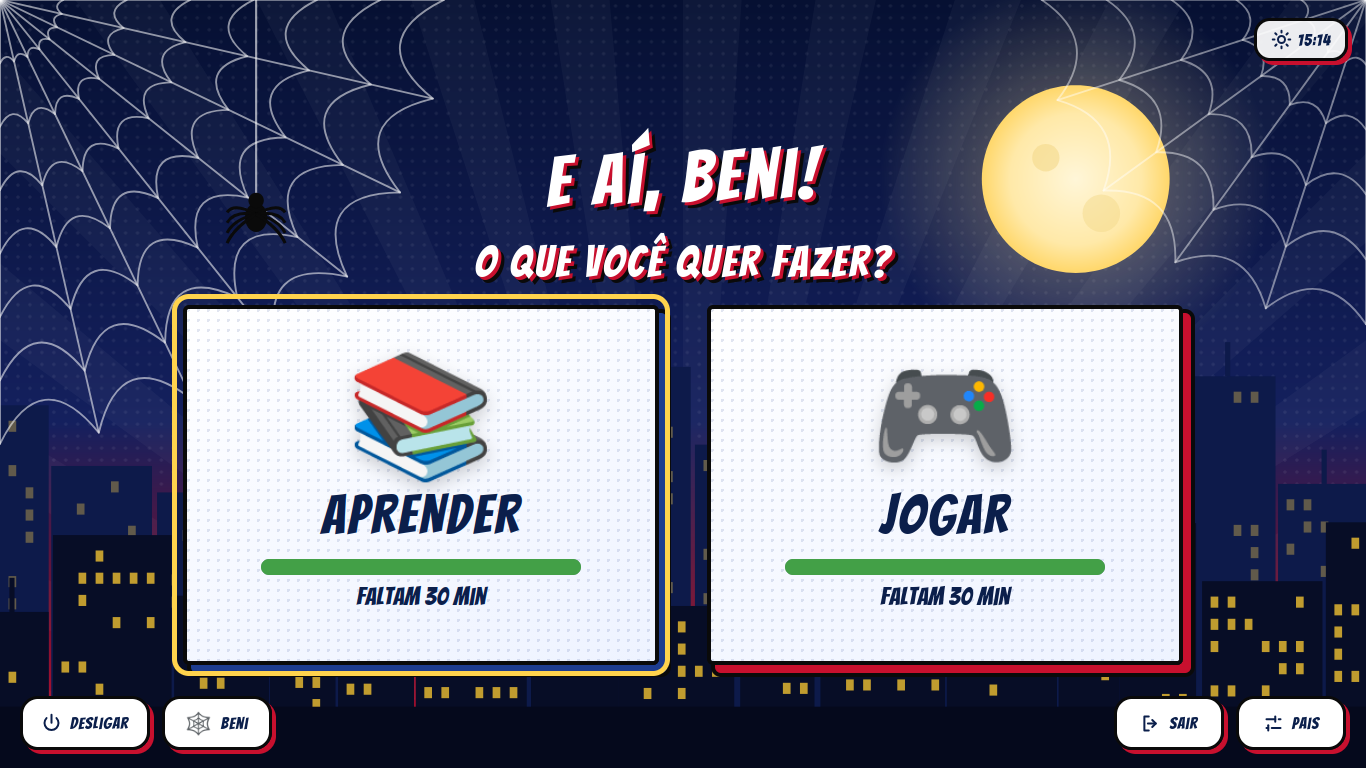
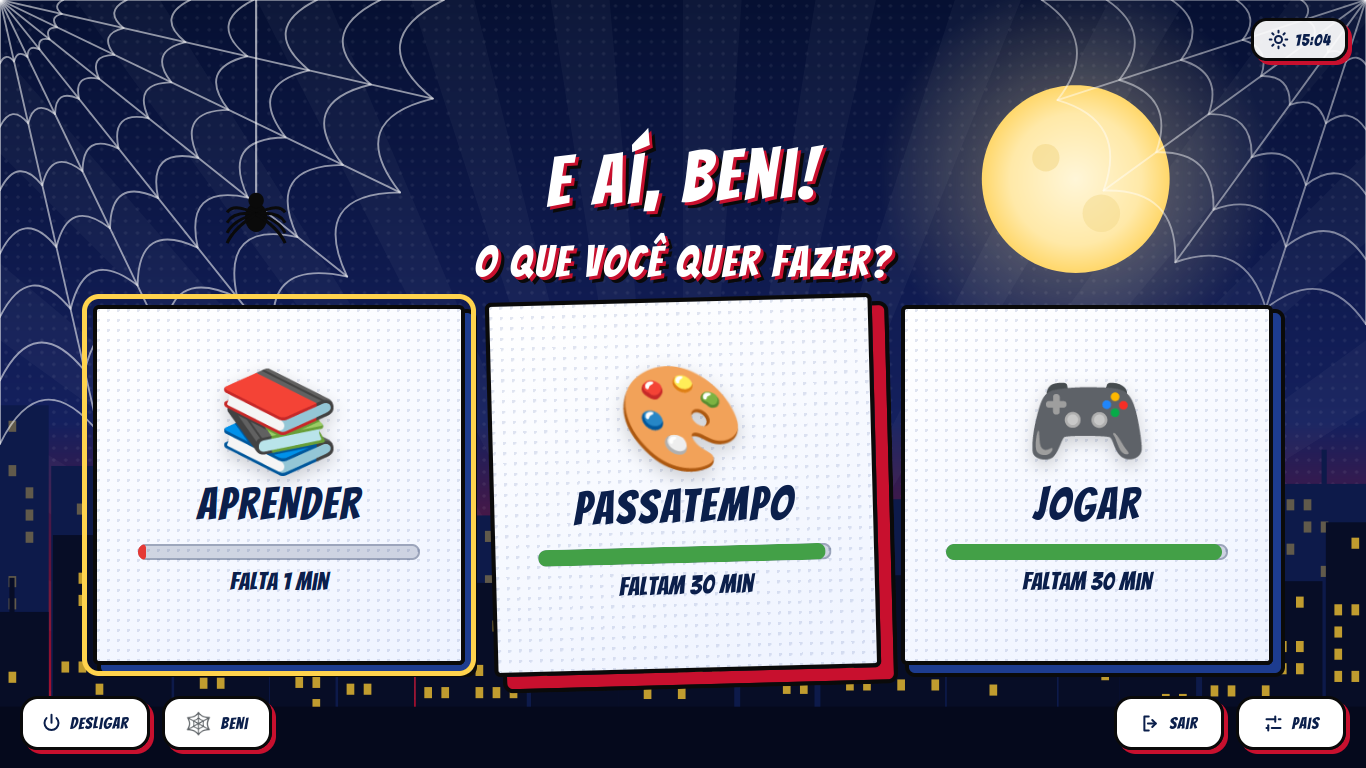
README reescrito: tempo de tela, reforço de aprendizagem, login automático e internet segura
Claude-Session: https://claude.ai/code/session_01SbTExiK8pLETFbRVF14o5w

Changed region(s): [[0.0615, 0.375, 0.9531, 0.9062], [0.8917, 0.0312, 0.9839, 0.0625]]

diff --git a/README.md b/README.md
@@ -1,52 +1,116 @@
 # Beni Launcher
 
-Um menu infantil em tela cheia para notebooks antigos com Linux, pensado para crianças de 5 a 8 anos.
-Ao ligar o notebook, a criança vê **"O que você quer fazer? 📚 Aprender / 🎨 Passatempo / 🎮 Jogar"**, escolhe, e só
-encontra apps, jogos e sites aprovados pelos pais, com **limite de tempo diário por categoria**.
+**Um computador para crianças que equilibra aprender e brincar.** É um menu em tela cheia para
+notebooks antigos com Linux, pensado para crianças de 5 a 10 anos. A criança só encontra o que
+os pais aprovaram. O tempo de tela é controlado por categoria, e o tempo de jogo depende de ela
+ter feito a parte de aprendizado.
+
+Ao ligar o notebook, a criança vê **"O que você quer fazer? 📚 Aprender / 🎨 Passatempo / 🎮 Jogar"**.
+Cada cartão mostra quanto tempo ainda resta hoje.
 
 ![Tela inicial](beni/prints/01-escolha-beni.png)
 
-> **Este projeto é uma adaptação do [Cozy Kids Launcher](https://github.com/TrissyGE/cozy-kids-launcher)**,
-> criado por Tristan e colaboradores (licença MIT). Todo o núcleo, como o servidor local, a
-> supervisão dos apps, o botão ❌ por cima dos jogos, os perfis, o PIN dos pais e os horários,
-> vem de lá. Este repositório parte da versão **0.6.0** (commit `91b7157`), mantém o histórico
-> original e acrescenta as mudanças descritas abaixo, feitas para preparar dois notebooks antigos
-> para duas crianças brasileiras (Beni, 8 anos, e Bea, 5 anos).
-> O README original está em [README.original.md](README.original.md).
+### Os quatro pilares
+
+| | |
+|---|---|
+| ⏳ **Tempo de tela por categoria** | Minutos por dia para Aprender, Passatempo e Jogar, diferentes em cada dia da semana se quiser (mais jogo no fim de semana). O tempo só conta com o app aberto, sobrevive a reinícios e zera à meia-noite. |
+| 📚 **Reforço obrigatório de aprendizagem** | Se ontem a criança não cumpriu a meta de Aprender, hoje o Jogar fica menor. Ex.: ontem 0/30 min de Aprender → hoje 15 min de Jogar em vez de 30. Os pais escolhem a meta e o tamanho da redução. |
+| 🔑 **Login automático nos sites** | Os pais salvam uma vez o e-mail e a senha da conta de cada criança (Khan Academy, Teach Your Monster). Ao abrir o site, o launcher entra sozinho. Cada criança tem o seu navegador, então as contas não se misturam. |
+| 🛡 **Internet e conteúdo seguros** | DNS com filtro para crianças em qualquer Wi‑Fi, Busca Segura e YouTube restrito obrigatórios, bloqueador de anúncios e sites "limpos" (sem menus de jogos, propagandas ou links para fora). |
+
+> **Base:** este projeto nasceu do [Cozy Kids Launcher](https://github.com/TrissyGE/cozy-kids-launcher)
+> (Tristan e colaboradores, licença MIT), versão **0.6.0** (commit `91b7157`). O núcleo vem de lá:
+> servidor local, supervisão dos apps, ❌ por cima dos jogos, perfis, PIN dos pais e horários.
+> O histórico original foi mantido. Hoje o projeto está bem diferente: tem tela de categorias,
+> limites, reforço de aprendizado, login automático, filtro de internet, apps e sites próprios,
+> emuladores e correções para hardware antigo. O README original está em
+> [README.original.md](README.original.md).
+> Feito para dois notebooks antigos de duas crianças brasileiras (Beni, 8 anos, e Bea, 5 anos).
 
 ---
 
-## O que mudou em relação ao original
+## Para as crianças
 
-### Para as crianças
-- **Tela inicial "Aprender / Passatempo / Jogar"**: cartões grandes (Passatempo = desenhar, colorir e jogos educativos, dividindo o tempo com os Jogos), cada um com uma barrinha e "faltam 18 min". A lista mostra só a categoria escolhida, com botão **⬅ Voltar** (ou Esc). Quando a categoria esgota, o cartão fica cinza com 🔒 "Amanhã tem mais!".
-- **Limite de tempo diário por categoria**: por exemplo, 60 min por dia, sendo 30 de jogos e 30 de atividades educativas.
-  - Medidores verde/amarelo/vermelho no launcher e o tempo restante ao lado do ❌ durante o jogo.
-  - Nos **10 segundos finais** aparece uma contagem grande ("Seu tempo de jogos está acabando! 8…"), com a sugestão do que ainda dá para fazer ("Você ainda pode brincar de Aprender (18 min)").
-  - O tempo continua contando certo mesmo depois de reiniciar o notebook e zera à meia-noite.
-  - Se os pais ligarem a **regra de aprendizado**, quem não aprendeu ontem tem menos tempo de Jogar hoje ("Hoje 15 min — ontem faltou aprender 📚").
-- **6 temas novos**, com arte original em SVG (nenhum personagem ou logo de marca):
-  - meninos: **Herói Aranha** (quadrinhos), **Blocos de Montar** e **Dojo Ninja**;
-  - meninas: **Reino do Gelo**, **Casinha Mágica** e **Castelo Encantado**, com letras grandes e redondas para quem ainda está aprendendo a ler.
-- **Interface toda em português do Brasil**: a tela das crianças e toda a área dos pais (novo idioma `pt`).
-- **Apps melhores**:
-  - GCompris em versão nova (Flathub) o Kleki para desenhar (no lugar do Tux Paint; os desenhos ficam em Imagens/Desenhos), o Autodraw e o Colorir (desenhos prontos para pintar, sem propaganda de outros jogos);
-  - Scratch (TurboWarp), Luanti (parecido com Minecraft), Klavaro (digitação), Klotski, Pingus, Hex-a-hop, SuperTux, Frogatto e Stellarium;
-  - sites educativos em português (Khan Academy, PhET com uma tela para escolher a matéria, Blockly Games, Escola Games sem anúncios e sem o menu de jogos de diversão);
-  - jogos de vestir/maquiagem/boneca sem anúncios (itch.io).
-- **Super Nintendo e PlayStation**: uma lista de jogos em tela cheia, com capas, que funciona com teclado, mouse ou controle. Usa RetroArch + snes9x e PCSX-Reloaded. Os jogos (ROMs) não vêm incluídos.
-- **Jogos de navegador em tela cheia de verdade**: os jogos do itch.io são ampliados até ocupar a tela, a faixa do Unity com o botão "tela cheia" é escondida e uma tela "Carregando…" cobre a abertura, para não aparecer a área de trabalho piscando.
+### Três categorias, cada uma com o seu tempo
+- **Tela inicial "Aprender / Passatempo / Jogar"**: cartões grandes com barrinha e "faltam 18 min".
+  - A lista mostra só a categoria escolhida, com **⬅ Voltar** (ou Esc).
+  - Quando o tempo acaba, o cartão fica cinza com 🔒 "Amanhã tem mais!".
+- **Medidores** verde/amarelo/vermelho no launcher. Durante o jogo, uma barra discreta mostra o tempo restante. Ela fica meio transparente, dá para arrastar para outro canto e tem o ❌ para fechar.
+- Nos **sites** aparece também um botão **‹ Voltar** no canto inferior esquerdo.
+- Nos **10 segundos finais**, uma contagem grande avisa ("Seu tempo de jogos está acabando! 8…") e sugere o que ainda dá para fazer ("Você ainda pode brincar de Aprender (18 min)").
+- Com o **reforço de aprendizagem** ligado:
+  - os cartões Jogar e Passatempo explicam com carinho: "Hoje 15 min — ontem faltou aprender 📚";
+  - o cartão Aprender mostra quanto falta para ter o Jogar inteiro amanhã ("Meta de hoje cumprida! ⭐").
 
-### Para os pais
-- **Coleções do itch.io**: cada criança tem uma coleção pública no itch.io. Jogo que você adiciona na coleção vira ícone, com a capa, no perfil da criança, e jogo removido some. A sincronização roda no login e a cada 30 min. Os pais testam o jogo antes e só então distribuem.
-- Em Pais → Tempo de tela → **Limite diário por categoria** você define os minutos (também diferentes em cada dia da semana, por exemplo mais jogo no fim de semana), escolhe a categoria de cada app e zera o tempo do dia.
-- **Regra de aprendizado** (opcional, no mesmo quadro): se ontem a criança não fez a meta de Aprender (padrão: metade do tempo de Aprender), hoje o Jogar (e o Passatempo, que divide o mesmo tempo) fica menor (padrão: metade). Ex.: ontem Aprender 0/30 min → hoje Jogar 15 min em vez de 30. Dá para escolher os dois percentuais e o modo proporcional (quem aprendeu um pouco perde menos). Dia sem uso do notebook não conta, e o total do dia não muda. A criança vê "Hoje 15 min — ontem faltou aprender 📚" no cartão Jogar e, no Aprender, quanto falta para ter o Jogar inteiro amanhã; os pais veem o motivo ("Hoje: Jogar reduzido para 15 min porque ontem Aprender foi 0/30 min").
-- **Login automático no Khan Academy e no Teach Your Monster**: em Pais → Crianças → "🔑 Login automático nos sites" você salva o e-mail e a senha da conta da criança; ao abrir o site, o launcher entra sozinho. Cada criança tem o seu navegador de sites, então os logins não se misturam.
-- **Internet com filtro**: o notebook usa o DNS CleanBrowsing Family em qualquer Wi‑Fi. Sites adultos, proxies e VPNs ficam bloqueados, e a Busca Segura do Google e o Modo Restrito do YouTube são obrigatórios.
-- Em Pais → Aparência → **Tela inicial** você liga ou desliga a pergunta Aprender/Passatempo/Jogar em cada perfil.
-- A prévia da aparência mostra o visual dos temas novos e as capas dos jogos.
+### O que tem em cada categoria
+| 📚 Aprender | 🎨 Passatempo | 🎮 Jogar |
+|---|---|---|
+| Khan Academy (login automático) | Desenhar (**Kleki**, desenhos salvos em Imagens/Desenhos) | Luanti (parecido com Minecraft) |
+| **PhET** com tela para escolher a matéria (Física, Matemática, Química, Terra e Espaço, Biologia), já no Ensino Fundamental 1 | **Autodraw** | SuperTux, SuperTuxKart, Frogatto |
+| **Escola Games** sem anúncios e sem o menu de jogos de diversão | **Colorir** (só os desenhos, sem propaganda de outros jogos) | **Super Nintendo e PlayStation** (lista com capas, teclado/mouse/controle) |
+| Scratch (TurboWarp), Blockly Games | **Teach Your Monster** (login automático) | jogos de navegador do **itch.io** em tela cheia de verdade |
+| Digitação (Klavaro), Planetário (Stellarium) | GCompris, Pingus, Hex-a-hop, Klotski, Music Lab | jogos de vestir/maquiagem/boneca sem anúncios |
 
-### Correções para notebooks antigos e jogos "rebeldes"
+Os pais mudam qualquer app de categoria em Pais → Tempo de tela.
+
+### Visual
+- **6 temas novos** com arte original em SVG (nenhum personagem ou logo de marca):
+  - **Herói Aranha** (quadrinhos), **Blocos de Montar** e **Dojo Ninja**;
+  - **Reino do Gelo**, **Casinha Mágica** e **Castelo Encantado**, com letras grandes e redondas para quem está aprendendo a ler.
+- **Tudo em português do Brasil**, na tela das crianças e na área dos pais.
+
+---
+
+## Para os pais
+
+### ⏳ Tempo de tela (Pais → Tempo de tela)
+- **Limite diário por categoria e total do dia**, por exemplo 30 min de Aprender + 30 min de Jogar.
+- O **Passatempo divide o tempo com os Jogos**: desenhar 10 min deixa 20 para jogar. Também pode ter tempo próprio.
+- **Tempo diferente em cada dia da semana**: uma tabela Seg–Dom, com o dia de hoje destacado.
+- **Categoria de cada app** escolhida numa lista, e um botão **"Zerar o tempo de hoje"**.
+- Horários permitidos por dia e por app (do projeto original).
+
+### 📚 Reforço obrigatório de aprendizagem (no mesmo quadro)
+- **Meta**: fazer pelo menos *X*% do tempo de Aprender do dia (padrão 50%: com 30 min de Aprender, a meta é 15).
+- **Consequência**: se a meta não foi cumprida ontem, hoje o Jogar (e o Passatempo, que divide o mesmo tempo) fica com *Y*% (padrão 50%).
+- **Modo proporcional** (opcional): quem aprendeu um pouco perde menos.
+- **Justo com a criança**:
+  - dia sem uso do notebook não conta;
+  - o Aprender e o total do dia nunca diminuem;
+  - o próprio launcher fecha o jogo no limite reduzido.
+- Os pais veem o motivo, por exemplo: "Hoje: Jogar reduzido para 15 min (de 30) porque ontem Aprender foi 0/30 min".
+- Vem desligado e é ligado por perfil.
+
+### 🔑 Login automático nos sites (Pais → Crianças)
+- Quadro **"Login automático nos sites"**, com e-mail/usuário e senha **por criança**.
+  - Hoje: Khan Academy e Teach Your Monster (conta de família, aba "Home").
+- Ao abrir o site, o launcher preenche o login e clica em "Entrar". Se a sessão ainda estiver aberta, não digita nada.
+- **A senha fica só neste computador**, num arquivo separado da configuração e legível só pelo usuário. Depois de salva, ela nunca aparece de novo na tela.
+- **Cada criança tem o seu navegador de sites** (cookies e logins separados): o Khan da Bea não abre com a conta do Beni.
+- Para acrescentar outro site, basta descrever a página de login em `src/site_logins.py`.
+
+### 🛡 Internet e conteúdo
+- **DNS CleanBrowsing Family** em qualquer Wi‑Fi:
+  - bloqueia sites adultos, proxies e VPNs;
+  - força a Busca Segura do Google/Bing e o Modo Restrito do YouTube.
+- Os navegadores não conseguem contornar o filtro, porque o DNS‑over‑HTTPS está desligado.
+- **uBlock Origin** nos sites, já ajustado para os jogos do Escola Games abrirem sem anúncio.
+- **Sites limpos com CSS próprio**:
+  - Escola Games sem o menu "Jogos";
+  - Colorir sem a barra de cima, banners e redes sociais;
+  - Autodraw sem "Share" e links externos.
+
+  As páginas proibidas também ficam bloqueadas por política do Firefox.
+- Downloads vão direto para `~/Imagens/Desenhos`, sem o painel do Firefox, que abriria o gerenciador de arquivos.
+
+### Outros
+- **Coleções do itch.io**: cada criança tem uma coleção pública. Jogo adicionado na coleção vira ícone (com capa), e jogo removido some. A sincronização roda no login e a cada 30 min, então os pais testam antes e só então liberam.
+- Em Pais → Aparência → **Tela inicial**, você liga ou desliga a pergunta Aprender/Passatempo/Jogar em cada perfil.
+
+---
+
+## Correções para notebooks antigos e jogos "rebeldes"
 | Problema | Solução |
 |---|---|
 | Nenhum app abria (o ❌ por cima falhava) | `python3-tk` passa a ser instalado |
@@ -54,11 +118,14 @@ encontra apps, jogos e sites aprovados pelos pais, com **limite de tempo diário
 | TuxMath, Pingus etc. **prendiam o mouse** e o ❌ não funcionava | `nograb.so` (LD_PRELOAD) anula o "prender mouse" do SDL 1.2/SDL2 |
 | SuperTuxKart trocava a resolução e **a tela ficava apagada** ao fechar | os atalhos sempre usam a resolução atual da tela |
 | Apps que abrem em janela (Scratch, Klavaro, Klotski) | `cozy-fullscreen` coloca em tela cheia via `wmctrl` |
+| Depois de fechar um app pelo ❌, o próximo abria **escondido atrás do menu** | o launcher só fica "por cima" por um instante |
 | Ctrl+Alt+Del bloqueava a tela, e ao voltar ficava preta | atalho e bloqueios automáticos desligados |
 | Barra do Linux aparecia ao abrir jogos | painéis do XFCE escondidos (aparecem com o mouse na borda) |
 | Linha vertical piscando no launcher (F7 do Firefox) | navegação com cursor desligada |
 | Esc numa mensagem de "tempo acabou" saía do modo infantil | agora Esc só fecha a mensagem |
 | Jogos 3D de navegador lentos no Firefox | jogos de navegador abrem no Chromium com aceleração forçada (≈2× mais FPS neste hardware) |
+| Jogos do Escola Games ficavam em "Loading…" com bloqueador de anúncios | o uBlock só bloqueia o script do Google (o jogo tem saída quando ele falha) |
+| O DNS global do NetworkManager 1.46 era ignorado | o DNS com filtro vai direto no `systemd-resolved` |
 
 A lista detalhada, arquivo por arquivo, está em [beni/MUDANCAS.md](beni/MUDANCAS.md).
 
@@ -76,34 +143,40 @@ A lista detalhada, arquivo por arquivo, está em [beni/MUDANCAS.md](beni/MUDANCA
 | Rede | Atheros AR9285 (só Wi-Fi, **sem Bluetooth**) |
 | Sistema | **Linux Mint 22.3 "Zena" XFCE** (base Ubuntu 24.04), kernel 6.14, sessão X11 |
 | Navegadores | Firefox 146 (launcher e sites) · Chromium 155 via Flathub (jogos de navegador) |
-| Python | 3.12 |
+| Python | 3.12 (só biblioteca padrão) |
 
-**Requisitos:** Linux Mint XFCE ou outra distro baseada em Ubuntu 24.04 com XFCE, sessão **X11**
-(não Wayland), internet na instalação e um usuário comum para a criança, com login automático.
-Em Mint Cinnamon/MATE quase tudo funciona, mas os ajustes de barra/bloqueio são específicos do XFCE.
+**Requisitos:**
+- Linux Mint XFCE ou outra distro baseada em Ubuntu 24.04 com XFCE.
+- Sessão **X11** (não Wayland).
+- Internet na instalação.
+- Um usuário comum para as crianças, com login automático.
+
+Em Mint Cinnamon/MATE quase tudo funciona, mas os ajustes de barra e bloqueio são específicos do XFCE.
 
 ---
 
 ## Instalação num notebook novo
 
 1. Instale o **Linux Mint XFCE**, crie o usuário e ative o **login automático**.
-2. Baixe este repositório e rode o instalador **como o usuário da criança** (sem `sudo`; ele pede a senha quando precisa):
+2. Baixe este repositório e rode o instalador **como o usuário da criança**, sem `sudo` (ele pede a senha quando precisa):
    ```bash
    git clone https://github.com/jaison/beni-launcher.git
    cd beni-launcher
    ./instalar.sh
    ```
-   São uns 2–3 GB de downloads: apps do Flathub, Chromium e emuladores.
+   São uns 2–3 GB de downloads: apps do Flathub, Chromium e emuladores. O instalador também
+   configura o DNS com filtro, o bloqueador de anúncios e as políticas do Firefox.
 3. Saia da sessão e entre de novo. O launcher abre sozinho.
 4. **Antes de entregar** para a criança:
-   - **Pais → Sistema: crie o PIN dos pais.** Sem PIN, qualquer um entra no painel, sai do modo infantil ou zera o tempo.
-   - Ajuste nomes, temas e limites em Pais. A configuração inicial traz dois perfis de exemplo, com os apps já separados em Aprender/Passatempo/Jogos.
+   - **Pais → Sistema: crie o PIN dos pais.** Sem PIN, qualquer um entra no painel, sai do modo infantil, zera o tempo ou vê o e-mail das contas salvas.
+   - Ajuste nomes, temas e limites em Pais. A configuração inicial traz dois perfis de exemplo, com os apps já separados em Aprender/Passatempo/Jogar.
+   - Se quiser, ligue o **reforço de aprendizagem** (Pais → Tempo de tela) e salve os **logins dos sites** (Pais → Crianças).
    - Luanti: abra uma vez e instale o jogo **Mineclonia** (Conteúdo → Procurar).
    - Coloque seus jogos de SNES/PS1 em `~/Jogos/SNES` e `~/Jogos/PS1`. A BIOS do PS1 vai em `~/Jogos/PS1/BIOS` (veja `~/Jogos/LEIA-ME.txt`).
    - Troque as coleções do itch.io em `~/.config/cozy-kids-launcher/itch-colecoes.json`. O arquivo liga o **id do perfil** à URL pública da coleção.
 
-Rodar `./instalar.sh` de novo atualiza os arquivos e **não apaga** a configuração nem os jogos.
-Use `./instalar.sh --sem-apps` para atualizar só o launcher, sem apt/flatpak.
+Rodar `./instalar.sh` de novo atualiza os arquivos e **não apaga** a configuração, os logins
+salvos nem os jogos. Use `./instalar.sh --sem-apps` para atualizar só o launcher, sem apt/flatpak.
 
 ---
 
@@ -111,11 +184,13 @@ Use `./instalar.sh --sem-apps` para atualizar só o launcher, sem apt/flatpak.
 
 ```
 login → ~/.config/autostart → cozy-iniciar
-          ├─ cozy-itch-sync      (lê as coleções do itch.io → tiles "itch-*" no config.json)
+          ├─ cozy-itch-sync      (coleções do itch.io → tiles "itch-*" no config.json)
           └─ cozy-kids-launcher  (servidor Python em 127.0.0.1:38431 + Firefox em modo quiosque)
-                 └─ tocar num ícone → process_supervisor.py + overlay.py (❌ e tempo restante)
-                        ├─ apps locais: atalhos em ~/.local/bin (tuxpaint, supertux, …)
-                        ├─ sites: Firefox em modo quiosque
+                 ├─ usage_limits.py   (tempo por categoria, dia da semana, reforço de aprendizagem)
+                 └─ tocar num ícone → process_supervisor.py + overlay.py (❌, tempo, ‹ Voltar)
+                        ├─ apps locais: atalhos em ~/.local/bin (supertux, gcompris, …)
+                        ├─ sites: Firefox em modo quiosque, um perfil por criança
+                        │     (uBlock, CSS dos sites; site_logins.py faz o login pelo Marionette)
                         └─ jogos de navegador: navegador-jogos → Chromium em modo quiosque
                                → cozy-jogo.html (amplia o jogo) + carregando.py (tela de espera)
 ```
@@ -123,11 +198,15 @@ login → ~/.config/autostart → cozy-iniciar
 | Onde | O quê |
 |---|---|
 | `src/` | código do launcher (original + mudanças) → `~/.local/share/cozy-kids-launcher` |
-| `src/usage_limits.py`, `src/frontend/usage-limits.*` | limites por categoria |
+| `src/usage_limits.py`, `src/frontend/usage-limits.*` | tempo de tela por categoria, dia da semana e reforço de aprendizagem |
+| `src/site_logins.py`, `src/frontend/site-logins.*` | login automático nos sites (senhas em `~/.config/cozy-kids-launcher/site-logins.json`) |
 | `src/frontend/escolha.*` | tela Aprender/Passatempo/Jogar |
+| `src/sites/phet.html` | pré-tela de matérias do PhET |
 | `src/frontend/cozy-temas.css`, `themes/*.svg`, `themes/fonts/` | temas novos |
 | `src/frontend/locales/pt.json` | tradução |
 | `beni/bin/` | atalhos dos apps, `cozy-itch-sync`, `navegador-jogos`, `cozy-iniciar` … → `~/.local/bin` |
+| `beni/firefox/` | uBlock Origin, CSS dos sites e políticas do Firefox (`/etc/firefox/policies`) |
+| `beni/sistema/` | DNS com filtro (systemd-resolved + NetworkManager) |
 | `beni/lib/cozy-fixes/` | `nograb.c` (compilado na instalação) e `carregando.py` |
 | `beni/cozy-jogos/jogos.py` | lista de jogos SNES/PS1 |
 | `beni/chromium/cozy-jogo.html` | moldura que amplia jogos de navegador |
@@ -141,24 +220,30 @@ O código ainda usa os nomes internos do original (`cozy-kids-launcher`, porta 3
 correções de lá.
 
 ### Testes
-Os 277 testes automáticos do projeto original passam (`python3 -m unittest discover -s tests`).
-Três testes foram ajustados ao comportamento novo: textos já traduzidos no `index.html` e o campo
-`limitBlocked` na resposta de disponibilidade.
+`python3 -m unittest discover -s tests` roda **316 testes**, os do projeto original e os novos:
+limites por categoria e dia da semana, categorias que dividem tempo, reforço de aprendizagem e
+login automático. Três testes do original foram ajustados ao comportamento novo: textos já
+traduzidos e o campo `limitBlocked`.
 
 ---
 
 ## Limitações conhecidas
-- Jogos de navegador demoram 10 a 50 s para abrir num Celeron. Jogos 3D pesados (alguns do Universo Rabisco) ficam abaixo de 10 FPS e foram escondidos.
+- Jogos de navegador demoram 10 a 50 s para abrir num Celeron. Jogos 3D pesados ficam abaixo de 10 FPS e foram escondidos.
 - O emulador de PS1 (PCSX-R) é antigo. O core `pcsx_rearmed` do RetroArch seria melhor, mas não está nos repositórios do Ubuntu.
-- O `src/index.html` (e outros arquivos com textos) deste repositório já vem "renderizado" em pt-BR, não é mais um modelo com `{{…}}`. O `scripts/install.sh` original continua funcionando (foi ajustado para copiar os arquivos novos), mas o caminho recomendado é o `instalar.sh`.
-- Sem PIN configurado, a área dos pais fica aberta.
+- **Login automático**:
+  - Só funciona com contas de e-mail/usuário e senha (não "Entrar com Google").
+  - Se o site mudar a página de login, é preciso ajustar `src/site_logins.py`.
+  - A senha fica protegida só pela permissão do arquivo, sem cifra. Proteja a área dos pais com PIN.
+- O filtro de DNS pode bloquear algum site inofensivo. Para desligar, veja `beni/MUDANCAS.md`.
+- O `src/index.html` (e outros arquivos com textos) já vem em pt-BR, não é mais um modelo com `{{…}}`. O `scripts/install.sh` original continua funcionando, mas o caminho recomendado é o `instalar.sh`.
 - ROMs comerciais não são fornecidas. Use cópias dos seus próprios discos/cartuchos ou jogos homebrew.
 
 ## Créditos e licenças
-- **[Cozy Kids Launcher](https://github.com/TrissyGE/cozy-kids-launcher)** © 2026 Tristan e colaboradores, **licença MIT**. Ela continua valendo para todo o código ([LICENSE](LICENSE)). As mudanças deste fork são publicadas sob a mesma licença.
+- **[Cozy Kids Launcher](https://github.com/TrissyGE/cozy-kids-launcher)** © 2026 Tristan e colaboradores, **licença MIT**. Ela continua valendo para todo o código ([LICENSE](LICENSE)), e as mudanças deste projeto são publicadas sob a mesma licença.
 - Fontes dos temas (Bangers, Bungee, Shojumaru, Fredoka): SIL Open Font License, veja [themes/fonts/LEIA-ME.md](themes/fonts/LEIA-ME.md).
-- Os apps e jogos instalados (GCompris, Tux Paint, TurboWarp, Luanti, SuperTux…) e os jogos do itch.io pertencem aos seus autores e só são baixados das fontes oficiais.
-- Adaptação feita com a ajuda do Claude (Anthropic) via Claude Code.
+- uBlock Origin (GPLv3) © Raymond Hill, incluído sem modificações.
+- Os apps, jogos e sites (GCompris, TurboWarp, Luanti, SuperTux, Kleki, Khan Academy, PhET, Escola Games, Teach Your Monster, itch.io…) pertencem aos seus autores e só são baixados ou abertos das fontes oficiais.
+- Feito com a ajuda do Claude (Anthropic) via Claude Code.
 
 ## Galeria
 | | |
